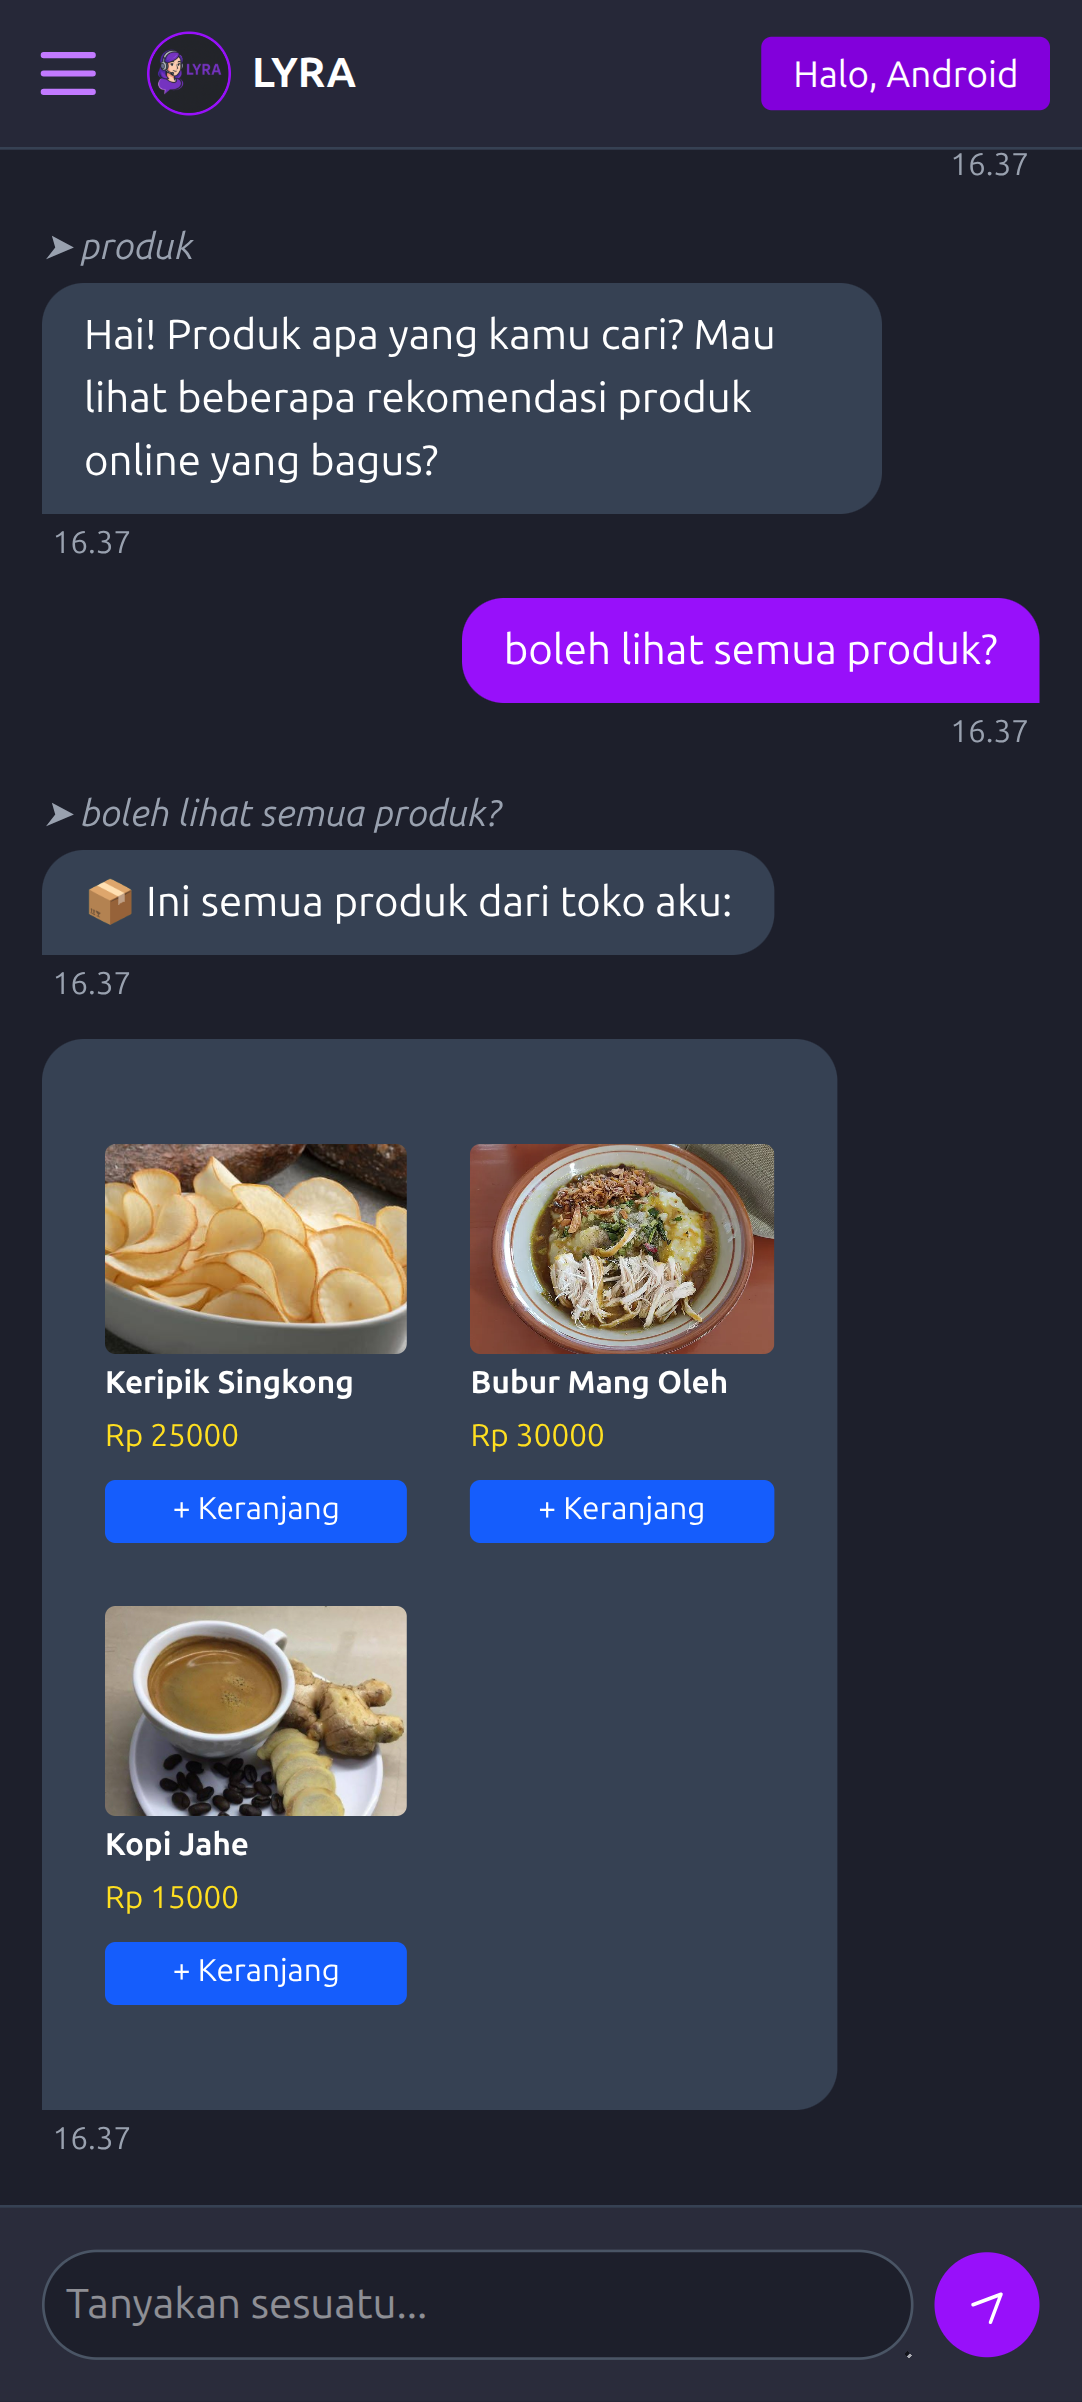
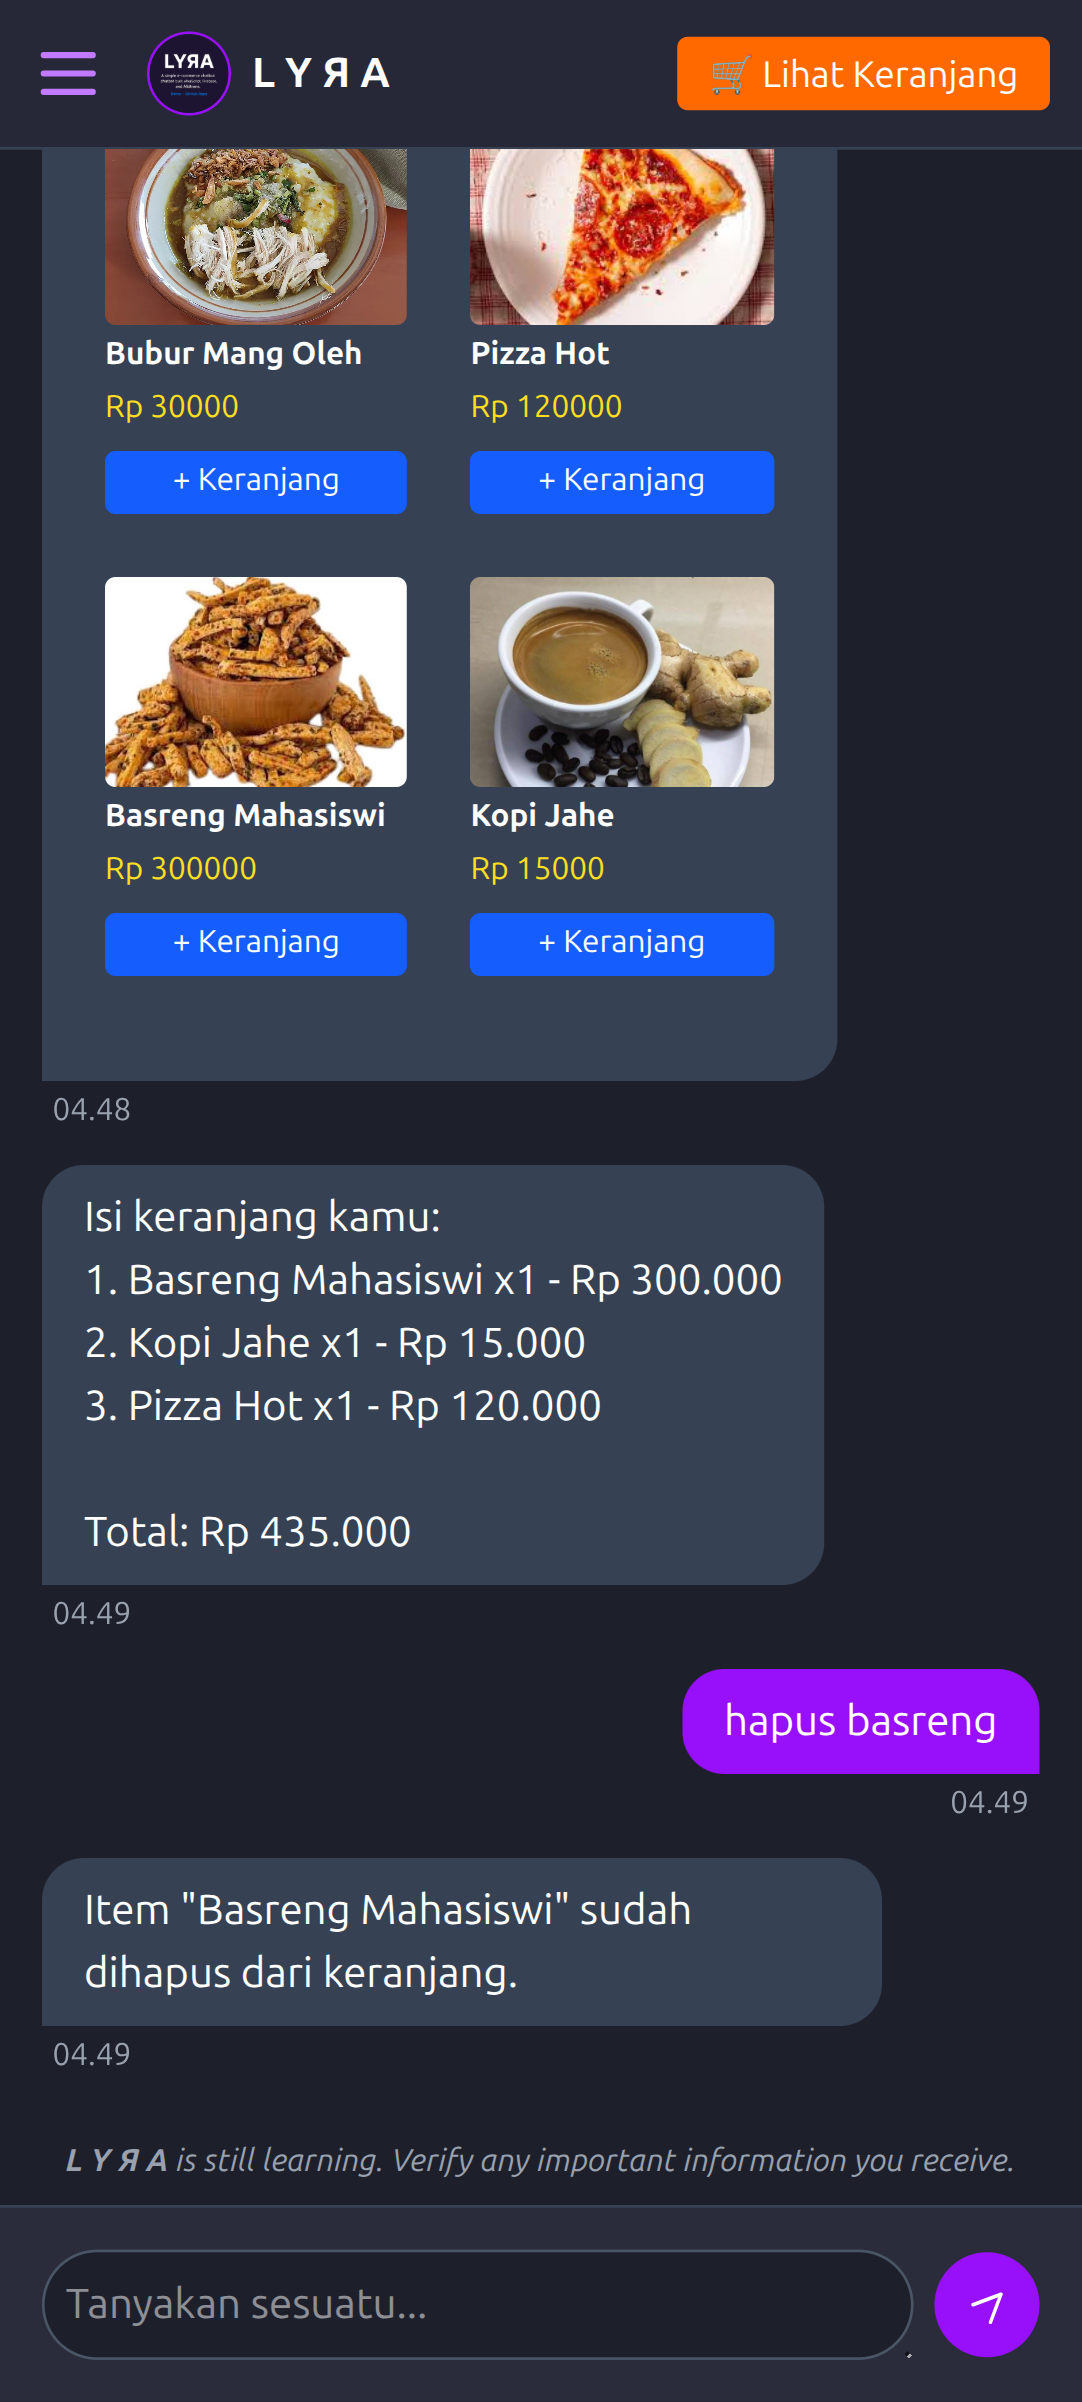
upgrade admin panel

diff --git a/src/pages/ChatTelegram.js b/src/pages/ChatTelegram.js
@@ -72,6 +72,10 @@ function respondWithTyping({ text, product = null, replyTo = null }) {
     hideTypingHeader();
   }, 1000 + Math.random() * 400); // biar dramatis
 }
+document.getElementById('atc')?.addEventListener('click', () => {
+  handleCartView(); // fungsi utama
+  showGlobalAlert('📦 Berhasil masuk keranjang kamu', 'info');
+});
 
 function renderProductGridInChat(products) {
   const html = `
@@ -81,7 +85,7 @@ function renderProductGridInChat(products) {
           <img src="${p.img}" class="w-full h-20 object-cover rounded" />
           <div class="font-semibold">${p.name}</div>
           <div class="text-yellow-300">Rp ${p.price.toLocaleString('id-ID')}</div>
-          <button class="cursor-pointer mt-1 bg-blue-600 text-white text-xs py-1 rounded add-to-cart-btn" data-slug="${p.slug}">+ Keranjang</button>
+          <button id="atc" class="cursor-pointer mt-1 bg-blue-600 text-white text-xs py-1 rounded add-to-cart-btn" data-slug="${p.slug}">+ Keranjang</button>
         </div>
       `).join('')}
     </div>
@@ -150,7 +154,7 @@ export default function ChatTelegram() {
         sendBtn?.click();
       }
     });
-
+    
 function handleCheckoutFlow() {
   const { isEmpty, cartList, total } = cartManager.getCartSummary();
   if (isEmpty) {
@@ -372,6 +376,25 @@ function handleCheckoutFlow() {
       await logout();
       window.location.href = '/';
     });
+    
+const cheatsheetModal = document.getElementById('cheatsheet-modal');
+const cheatsheetContent = document.getElementById('cheatsheet-content');
+
+document.getElementById('openCheatsheet')?.addEventListener('click', () => {
+  cheatsheetModal.classList.remove('hidden');
+  setTimeout(() => {
+    cheatsheetContent.classList.remove('opacity-0', 'scale-95');
+    cheatsheetContent.classList.add('opacity-100', 'scale-100');
+  }, 10);
+});
+
+document.getElementById('closeCheatsheet')?.addEventListener('click', () => {
+  cheatsheetContent.classList.remove('opacity-100', 'scale-100');
+  cheatsheetContent.classList.add('opacity-0', 'scale-95');
+  setTimeout(() => {
+    cheatsheetModal.classList.add('hidden');
+  }, 200);
+});
 
     loginBtn?.addEventListener('click', login);
     modalLoginBtn?.addEventListener('click', login);
@@ -609,7 +632,7 @@ function openProductModal(product) {
   }, 50);
 
   return `
-    <div class="flex h-screen bg-[#1d1f2b] text-white font-sans relative overflow-hidden">
+    <div class="flex h-screen bg-white text-black dark:bg-[#1d1f2b] dark:text-white font-sans relative overflow-hidden">
       <!-- Sidebar overlay for mobile -->
       <div id="sidebarOverlay" class="fixed inset-0 bg-black/50 z-30 hidden md:hidden"></div>
       <!-- Sidebar -->
@@ -625,11 +648,19 @@ function openProductModal(product) {
           </button>
           </div>
         <div class="border-t border-gray-700 mt-4 pt-4"></div>
-        <div id="sidebarProduct" class="flex-1 overflow-y-auto space-y-2"></div>
+        <div id="sidebarProduct" class="flex-1 overflow-y-auto scrollbar-none space-y-2"></div>
         <div class="relative bottom-0 left-0">
         <div class="mt-auto pt-4 border-t border-gray-700">
+        <!-- Tombol Cheatsheet -->
+        <button id="openCheatsheet" class="flex items-center cursor-pointer gap-2 w-full text-left text-sm px-3 py-2 hover:bg-gray-700 rounded-lg transition">
+          <svg xmlns="http://www.w3.org/2000/svg" class="lucide lucide-book-open w-4 h-4 text-purple-400" fill="none" viewBox="0 0 24 24" stroke="currentColor" stroke-width="2">
+            <path d="M2 6a2 2 0 0 1 2-2h7v16H4a2 2 0 0 1-2-2V6Z" />
+            <path d="M22 6a2 2 0 0 0-2-2h-7v16h7a2 2 0 0 0 2-2V6Z" />
+          </svg>
+          Cheatsheet
+        </button>
           <!-- Tombol Pengaturan -->
-          <button id="openSettings" class="cursor-pointer flex items-center gap-2 w-full text-left text-sm px-3 py-2 hover:bg-gray-700 rounded-lg transition">
+          <button id="openSettings" onclick="location.href='/underconstruction.html'" class="cursor-pointer flex items-center gap-2 w-full text-left text-sm px-3 py-2 hover:bg-gray-700 rounded-lg transition">
             <svg xmlns="http://www.w3.org/2000/svg" class="lucide lucide-settings w-4 h-4 text-purple-400" fill="none" viewBox="0 0 24 24" stroke="currentColor" stroke-width="2">
               <path d="M12 15.5a3.5 3.5 0 1 0 0-7 3.5 3.5 0 0 0 0 7Z"/>
               <path d="M19.4 15a1.65 1.65 0 0 0 .33 1.82l.06.06a2 2 0 0 1-2.83 2.83l-.06-.06a1.65 1.65 0 0 0-1.82-.33 1.65 1.65 0 0 0-1 1.51V21a2 2 0 0 1-4 0v-.09a1.65 1.65 0 0 0-1-1.51 1.65 1.65 0 0 0-1.82.33l-.06.06a2 2 0 0 1-2.83-2.83l.06-.06a1.65 1.65 0 0 0 .33-1.82 1.65 1.65 0 0 0-1.51-1H3a2 2 0 0 1 0-4h.09c.7 0 1.31-.4 1.51-1a1.65 1.65 0 0 0-.33-1.82l-.06-.06a2 2 0 1 1 2.83-2.83l.06.06c.46.46 1.12.6 1.72.33h.01a1.65 1.65 0 0 0 1-1.51V3a2 2 0 0 1 4 0v.09c0 .7.4 1.31 1 1.51a1.65 1.65 0 0 0 1.82-.33l.06-.06a2 2 0 0 1 2.83 2.83l-.06.06c-.46.46-.6 1.12-.33 1.72v.01c.3.6.94 1 1.66 1H21a2 2 0 0 1 0 4h-.09c-.7 0-1.31.4-1.51 1Z"/>
@@ -661,11 +692,13 @@ function openProductModal(product) {
               <div id="typingStatus" class="text-xs text-gray-400 hidden">sedang mengetik...</div>
             </div>
           </div>
-        <button id="cartBtn" class="text-sm bg-orange-500 text-white px-3 py-1 rounded">🛒 Lihat Keranjang</button>
+        <button id="cartBtn" class="text-sm cursor-pointer bg-orange-500 text-white px-3 py-1 rounded">🛒 Lihat Keranjang</button>
         </div>
 
         <div id="chatBox" class="flex-1 overflow-y-auto p-4 space-y-3 flex flex-col min-h-0 scrollbar-none"></div>
-
+        <div class="text-xs text-gray-400 text-center px-4 py-2">
+          <em><strong>L Y Я A</strong> is still learning. Verify any important information you receive.</em>
+        </div>
         <div class="p-4 border-t border-gray-700 flex items-center gap-2 bg-[#2a2c3b]">
         <textarea id="chatInput" rows="1" placeholder="Tanyakan sesuatu..." class="flex-1 bg-[#1d1f2b] text-white p-2 rounded-full focus:outline-none border border-gray-600"></textarea>
           <button id="sendBtn" class="cursor-pointer flex items-center gap-2 bg-purple-600 px-3 py-3 rounded-full">
@@ -673,10 +706,10 @@ function openProductModal(product) {
               <path stroke-linecap="round" stroke-linejoin="round" stroke-width="2" d="M4 12l16-6m0 0l-6 16m6-16L4 12" />
             </svg>
           </button>
-        </div>
-      </div>
+       </div>
+       </div>
 
-      <div id="product-modal" class="fixed inset-0 z-50 hide bg-black/50 flex items-center justify-center">
+      <div id="product-modal" class="fixed inset-0 z-50 hide  bg-black/50 backdrop-blur-sm flex items-center justify-center">
         <div id="modal-content" class="bg-[#2a2c3b] opacity-0 scale-95 relative rounded-2xl w-full max-w-xl mx-4 md:mx-auto md:w-[600px] overflow-hidden shadow-lg transition-all">
           <button id="modal-close" class="absolute cursor-pointer top-2 right-4 text-red-800 text-4xl">&times;</button>
           <div class="flex flex-col md:flex-row">
@@ -690,11 +723,41 @@ function openProductModal(product) {
               </div>
               <p class="text-sm text-amber-50">Terjual: <span id="modal-sold"></span></p>
               <p id="modal-price" class="text-lg font-semibold text-green-600 mt-2"></p>
-              <button id="buy-button" class="mt-auto bg-blue-600 text-white px-4 py-2 rounded hover:bg-blue-700 transition">
+              <button id="buy-button" class="mt-auto cursor-pointer bg-blue-600 text-white px-4 py-2 rounded hover:bg-blue-700 transition">
                 Beli Sekarang
               </button>
             </div>
           </div>
+        </div>
+      </div>
+
+      <div id="cheatsheet-modal" class="fixed inset-0 z-50 bg-black/50 backdrop-blur-sm hidden flex items-center justify-center">
+        <div class="bg-[#2c2e3e] rounded-lg max-w-md w-11/12 p-6 shadow-lg transform opacity-0 scale-95 transition-all duration-300" id="cheatsheet-content">
+          <div class="flex justify-between items-center mb-4">
+            <h2 class="text-lg font-bold">📘 Cheatsheet L Y Я A</h2>
+            <button id="closeCheatsheet" class="text-gray-400 cursor-pointer hover:text-white">
+              <svg xmlns="http://www.w3.org/2000/svg" class="lucide lucide-x w-6 h-6" viewBox="0 0 24 24" fill="none" stroke="currentColor" stroke-width="2">
+                <path d="M18 6 6 18" /><path d="m6 6 12 12" />
+              </svg>
+            </button>
+          </div>
+          <ul class="space-y-2 text-sm text-gray-300 list-disc list-inside max-h-[80vh] overflow-y-auto pr-2">
+            <li><code>ada produk apa</code> – tampilkan semua produk</li>
+            <li><code>minta best seller</code> – tampilkan produk terlaris</li>
+            <li><code>rekomendasi dong</code> – minta rekomendasi</li>
+            <li><code>lihat keranjang</code> – tampilkan isi keranjang</li>
+            <li><code>hapus (nama produk)</code> – hapus item keranjang</li>
+            <li><code>Nama: ...</code> – kirim data checkout <strong>(onworking)</strong></li>
+            <li><code>aku mau bayar</code> – Snap midtrans <strong>(onworking)</strong></li>
+            <li><code>ubah gaya ke genz</code> – ubah gaya bicara L Y Я A</li>
+            <li><code>kamu siapa?</code> – kenalan sama L Y Я A 😄</li>
+            <li><code>motto kamu apa</code> – tanya motto hidup LYRA</li>
+            <li><code>apa itu LYRA?</code> – tanya tentang L Y Я A</li>
+            <li><code>ini toko apa?</code> – tanya tentang toko ini</li>
+            <li>Dan masih banyak lagi! Coba aja tanya, L Y Я A siap bantu! 😊</li>
+            <li><small>bisa saja L Y Я A memberikan jawaban yang tidak relevan, jadi pastikan untuk bertanya dengan jelas ya!</small></li>
+          </ul>
+            <p class="text-center"><small>L Y Я A bisa salah. Silakan verifikasi info penting.</small></p>
         </div>
       </div>
 
@@ -705,8 +768,40 @@ function openProductModal(product) {
           <button id="modalLoginBtn" class="bg-purple-600 px-4 py-2 cursor-pointer rounded-full">Login dengan Google</button>
         </div>
       </div>
+      <div id="globalAlert" class="fixed top-4 right-4 z-[1000] hidden px-4 py-3 rounded-lg text-sm font-medium transition-all duration-300 shadow-lg"></div>
     </div>
   `;
+}
+function showGlobalAlert(message, type = 'info') {
+  const alertBox = document.getElementById('globalAlert');
+  if (!alertBox) return;
+
+  alertBox.textContent = message;
+  alertBox.className = 'fixed top-4 right-4 z-[1000] px-4 py-3 rounded-lg text-sm font-medium transition-all duration-300 shadow-lg';
+
+  switch (type) {
+    case 'success':
+      alertBox.classList.add('bg-green-500', 'text-white');
+      break;
+    case 'error':
+      alertBox.classList.add('bg-red-500', 'text-white');
+      break;
+    case 'warning':
+      alertBox.classList.add('bg-yellow-400', 'text-black');
+      break;
+    default:
+      alertBox.classList.add('bg-gray-800', 'text-white');
+  }
+
+  alertBox.classList.remove('hidden');
+
+  setTimeout(() => {
+    alertBox.classList.add('opacity-0');
+    setTimeout(() => {
+      alertBox.classList.add('hidden');
+      alertBox.classList.remove('opacity-0');
+    }, 300);
+  }, 3000);
 }
 
 async function handleRequest(prompt) {

diff --git a/src/pages/AdminPanel.js b/src/pages/AdminPanel.js
@@ -16,6 +16,7 @@ export default function AdminPanel() {
           <input type="text" id="name" placeholder="Nama Produk" required class="w-full p-2 rounded bg-gray-800 border border-gray-600 focus:outline-none" />
           <input type="text" id="price" placeholder="Harga (cth: Rp15.000)" required class="w-full p-2 rounded bg-gray-800 border border-gray-600 focus:outline-none" />
           <input type="text" id="img" placeholder="Link Gambar (URL)" required class="w-full p-2 rounded bg-gray-800 border border-gray-600 focus:outline-none" />
+          <textarea type="text" id="description" placeholder="Deskripsi Produk" required class="w-full p-2 rounded bg-gray-800 border border-gray-600 focus:outline-none" rows="4"></textarea>
           <input type="text" id="slug" placeholder="Slug (cth: keripik-lada-hitam)" required class="w-full p-2 rounded bg-gray-800 border border-gray-600 focus:outline-none" />
           <input type="number" id="rating" step="0.1" max="5" min="0" placeholder="Rating (0-5)" class="w-full p-2 rounded bg-gray-800 border border-gray-600 focus:outline-none" />
           <input type="number" id="sold" placeholder="Total Terjual" class="w-full p-2 rounded bg-gray-800 border border-gray-600 focus:outline-none" />
@@ -44,7 +45,7 @@ export function initAdminPanel() {
 
   logoutBtn?.addEventListener('click', async () => {
     await logoutAdmin();
-    window.location.href = '/login';
+    window.location.href = '/';
   });
 
   form.addEventListener('submit', async (e) => {
@@ -53,12 +54,13 @@ export function initAdminPanel() {
       name: form.name.value,
       price: form.price.value,
       img: form.img.value,
+      description: form.description.value,
       slug: form.slug.value,
       rating: parseFloat(form.rating.value || 0),
       sold: parseInt(form.sold.value || 0),
       keywords: form.keywords.value.split(',').map(k => k.trim()).filter(Boolean),
     };
-    if (!data.name || !data.price || !data.img || !data.slug) {
+    if (!data.name || !data.price || !data.img || !data.description || !data.slug) {
       alert('Semua kolom wajib diisi, bre!');
       return;
     }
@@ -70,10 +72,11 @@ export function initAdminPanel() {
   async function renderProducts() {
     const products = await fetchProducts();
     list.innerHTML = products.map(p => `
-      <div class="border w-fit border-gray-600 p-3 rounded-lg">
+      <div class="border w-fit border-gray-600 p-3 rounded-lg" style="max-width: 197px;">
         <div class="font-bold text-lg">${p.name}</div>
         <img src="${p.img}" alt="${p.name}" class="h-32 object-cover mt-2 rounded" style='width: -webkit-fill-available;' />
         <div class="text-sm text-gray-300">${p.price} - Terjual: ${p.sold} - ⭐ ${p.rating}</div>
+        <div class="text-xs text-gray-400">Deskripsi: ${p.description}</div>
         <div class="text-xs text-gray-400">Slug: ${p.slug}</div>
         <div class="text-xs text-gray-400">Keyword: ${p.keywords?.join(', ')}</div>
       </div>

diff --git a/public/underconstruction.html b/public/underconstruction.html
@@ -1,0 +1,14 @@
+<!DOCTYPE html>
+<html lang="id" class="bg-gray-900 text-white font-sans h-screen flex items-center justify-center">
+  <script src="https://cdn.tailwindcss.com"></script>
+<head>
+  <meta charset="UTF-8" />
+  <meta name="viewport" content="width=device-width, initial-scale=1.0"/>
+  <title>Under Construction</title>
+</head>
+<body class="text-center px-6">
+  <h1 class="text-4xl font-bold text-yellow-400 mb-3">🚧 Sedang Dibangun!</h1>
+  <p class="mb-6 text-gray-300">Fitur ini belum siap tayang, tapi LYRA dan tim lagi ngebut ngerjainnya! 💪</p>
+  <a href="/" class="bg-yellow-500 px-4 py-2 rounded text-black hover:bg-yellow-600 transition">Balik ke Beranda</a>
+</body>
+</html>

diff --git a/src/404.html b/src/404.html
@@ -1,0 +1,13 @@
+<!DOCTYPE html>
+<html lang="id" class="bg-black text-white font-sans h-screen flex items-center justify-center">
+<head>
+  <meta charset="UTF-8" />
+  <meta name="viewport" content="width=device-width, initial-scale=1.0"/>
+  <title>404 - Halaman Tidak Ditemukan</title>
+</head>
+<body class="text-center px-6">
+  <h1 class="text-6xl font-bold text-purple-400 mb-4">404</h1>
+  <p class="text-lg mb-6">Yah, halaman yang kamu cari gak ada 😢</p>
+  <a href="/" class="bg-purple-600 px-4 py-2 rounded text-white hover:bg-purple-700 transition">Kembali ke Beranda</a>
+</body>
+</html>

diff --git a/index.html b/index.html
@@ -7,7 +7,7 @@
     <title>LYRA | AI shoping online</title>
     <script src="https://accounts.google.com/gsi/client" async defer></script>
   </head>
-  <body class="bg-[#1d1f2b] text-white h-fit">
+  <body class="bg-white text-black dark:bg-[#1d1f2b] dark:text-white h-fit">
     <div id="app"></div>
     <script type="module" src="/src/main.js"></script>
   </body>

diff --git a/tailwind.config.js b/tailwind.config.js
@@ -3,8 +3,10 @@ export default {
     "./index.html",
     "./src/**/*.{js,html}"
   ],
+  darkMode: 'class', // ⬅ ini yang penting
   theme: {
     extend: {},
   },
   plugins: [],
 }
+

diff --git a/src/style.css b/src/style.css
@@ -64,3 +64,9 @@
 .bubble-pop {
   animation: bubblePop 0.25s ease-out;
 }
+.backdrop-blur-sm {
+  backdrop-filter: blur(6px);
+}
+#sidebarProduct::-webkit-scrollbar {
+  display: none;
+}
